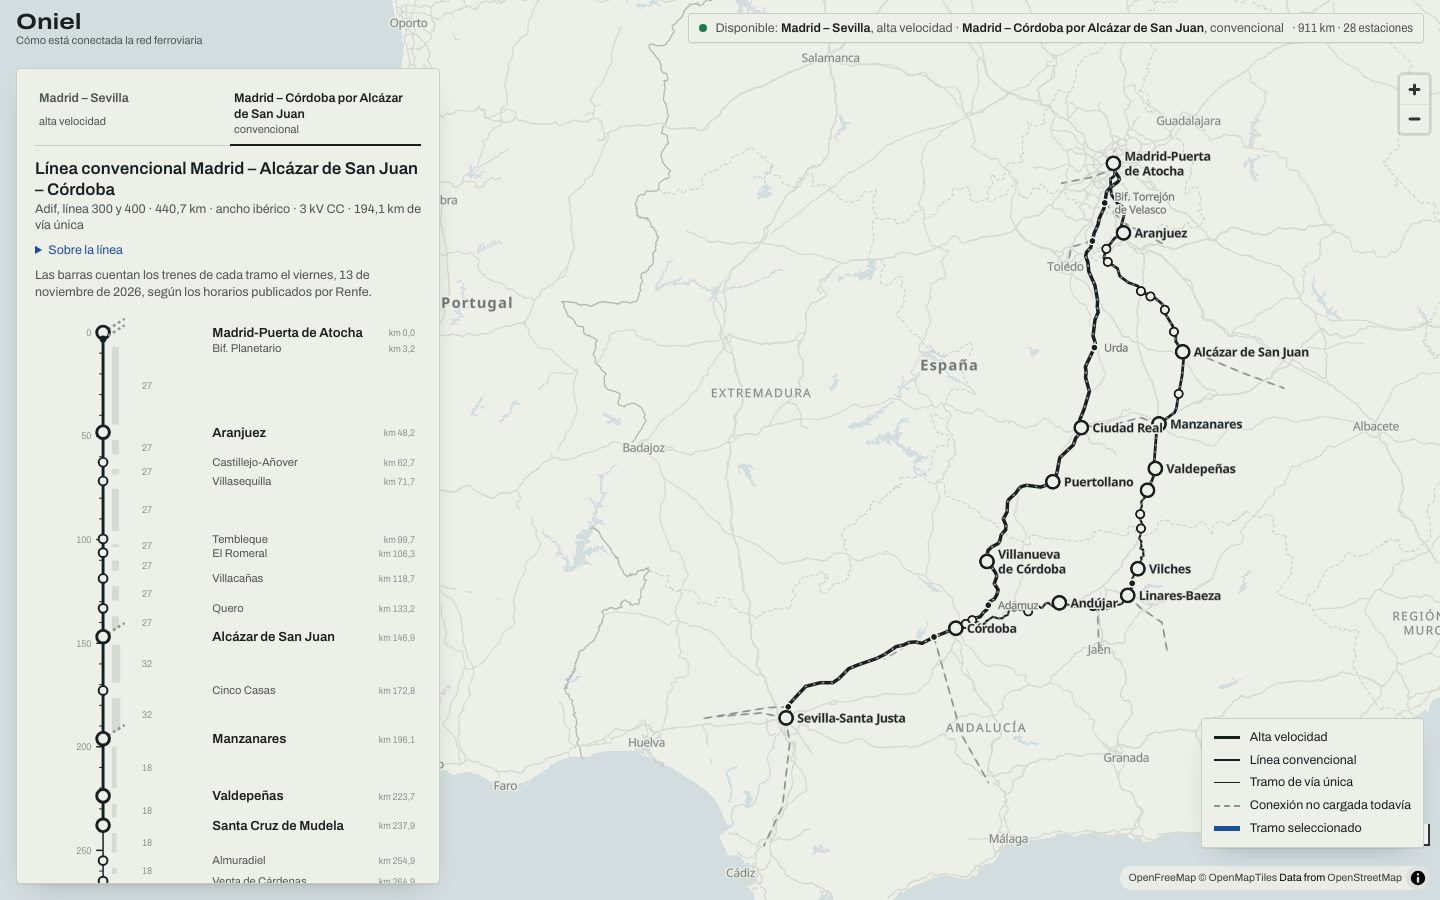
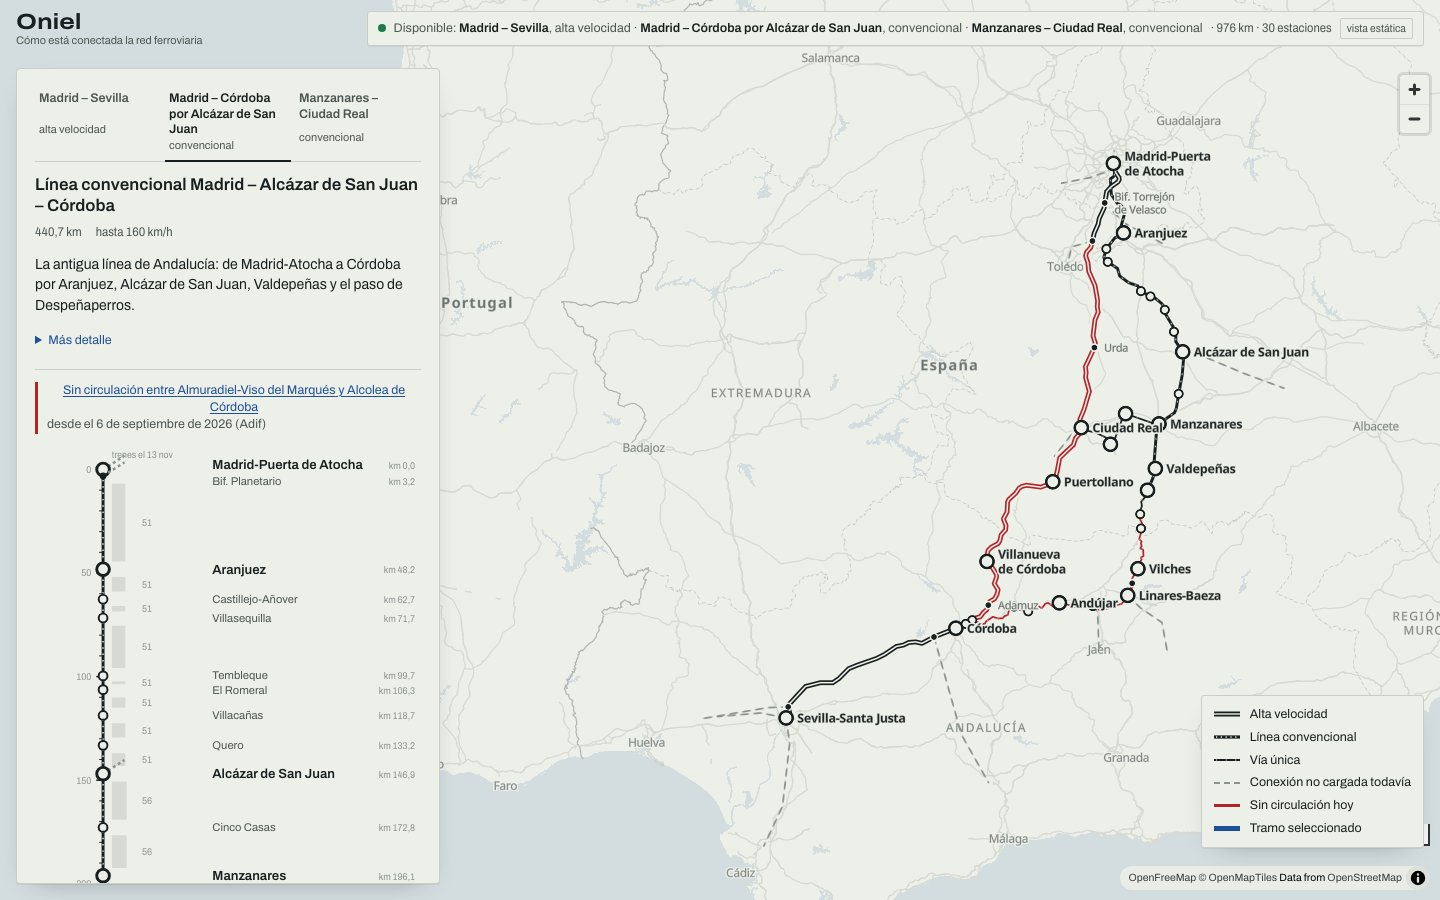
La ficha del tramo dice el tipo de vía, diseño documentado y capturas con el trazo nuevo

diff --git a/frontend/src/panel/SegmentDetail.tsx b/frontend/src/panel/SegmentDetail.tsx
@@ -2,7 +2,7 @@ import { useEffect, useState } from 'react'
 
 import { ApiError, fetchSegmentServices } from '../data/api'
 import type { InterruptionOut, NetworkOut, SegmentOut, SegmentServicesOut, Source } from '../data/types'
-import { formatDate, formatKm, productLabel, shortStop, tracksLabel } from '../app/state'
+import { formatDate, formatKm, lineKind, productLabel, shortStop, tracksLabel } from '../app/state'
 import { InterruptionNotice } from './InterruptionNotice'
 import { KindBadge } from './KindBadge'
 import { PieFuente, Plegable } from './Plegable'
@@ -44,6 +44,11 @@ export function SegmentDetail({ segment, network, sources, referenceDate, interr
       <button type="button" className="enlace volver" onClick={onBack}>
         ← Toda la línea
       </button>
+      {/* lo primero, el tipo de vía en palabras: el mismo que dicen el trazo del mapa y la leyenda */}
+      <p className="sobre" data-testid="tramo-tipo">
+        {line && lineKind(line) === 'alta velocidad' ? 'Alta velocidad' : 'Línea convencional'}
+        {segment.tracks === 1 ? ', vía única' : ''}
+      </p>
       <p className="sobre">Tramo {segment.seq} de {line?.segment_count ?? '–'} · {line?.name}</p>
       <h2 id="detalle-titulo" className="titulo">
         <button type="button" className="enlace-nodo" onClick={() => onSelectNode(segment.from_node_id)}>

diff --git a/frontend/e2e/explorar.spec.ts b/frontend/e2e/explorar.spec.ts
@@ -23,6 +23,7 @@ test.describe('Explorar la red', () => {
     await expect(page.getByRole('heading', { name: /Ciudad Real/ })).toBeVisible()
     await expect(page.getByRole('heading', { name: /Puertollano/ })).toBeVisible()
     await expect(page.getByText(/Longitud/)).toBeVisible()
+    await expect(page.getByTestId('tramo-tipo')).toHaveText('Alta velocidad')
     await expect(page.getByTestId('tramo-vias')).toHaveText('Vía doble')
     await expect(page.getByTestId('lista-servicios').locator('li').first()).toBeVisible()
     await expect(page.getByTestId('lista-servicios')).toContainText(/AVE|AVLO|ALVIA|Intercity/)
@@ -42,6 +43,7 @@ test.describe('Explorar la red', () => {
     await expect(page.getByTestId('detalle-nodo')).toBeVisible()
     await page.getByRole('button', { name: 'Santa Cruz de Mudela – Almuradiel-Viso del Marqués' }).click()
     await expect(page.getByTestId('detalle-tramo')).toBeVisible()
+    await expect(page.getByTestId('tramo-tipo')).toHaveText('Línea convencional, vía única')
     await expect(page.getByTestId('tramo-vias')).toHaveText('Vía única')
     await expect(page.getByTestId('lista-servicios')).toContainText(/MD/)
     await expect(page).toHaveURL(/#\/tramo\/convencional-madrid-alcazar-cordoba:santa-cruz-de-mudela:almuradiel-viso-del-marques/)

diff --git a/docs/diseno.md b/docs/diseno.md
@@ -48,13 +48,17 @@ Composición
 - Móvil: mapa arriba, hoja inferior arrastrable con el esquema compacto y la selección.
 - Varias líneas: el mapa las dibuja todas; el panel muestra una a la vez, elegida con pestañas sobre el esquema, y cambia solo a la línea de lo que se selecciona en el mapa. Un nodo común a dos líneas (Madrid-Puerta de Atocha, Córdoba, Manzanares, Ciudad Real) es un solo punto en el mapa y aparece en el esquema de cada línea con su kilómetro.
 
-Trazo de la vía
-- Sigue siendo tinta; el grosor dice de qué vía se trata, como en las hojas del IGN: alta velocidad 3 px, línea convencional 2,4 px, vía única 1,8 px (a zoom 5; crecen con el zoom). Los trazos blancos se mantienen en todas.
-- En el esquema vertical la vía doble es un trazo de 3 px y la vía única de 1,5 px; la leyenda del mapa explica los tres grosores.
+Trazo de la vía (decidido el 11 de noviembre de 2026, con las variantes delante: `docs/capturas/escritorio-16-trazos.jpg` y `movil-07-trazos.jpg`)
+- La vía sigue siendo tinta y no usa color: lo que dice de qué vía se trata es el dibujo del trazo y, además, el grosor, como en los mapas topográficos. Se descartó distinguirla solo por el grosor (había que comparar dos líneas para notarlo) y solo por el dibujo (el filete se perdía en la vista general).
+- Alta velocidad: trazo grueso (4,2 px a zoom 5) con un filete claro continuo por el centro. Línea convencional de vía doble: trazo medio (2,55 px) con los trazos blancos clásicos. Vía única, sea cual sea la línea: trazo fino (1,5 px) con los trazos blancos más espaciados. Todos crecen con el zoom.
+- El tipo de línea y el número de vías son dos propiedades distintas de cada tramo (`tipo` y `vias` en `frontend/src/map/layers.ts`); el trazo sale de las dos.
+- El esquema vertical usa la misma convención (5 px con filete, 3 px con trazos, 2 px con trazos espaciados) y la leyenda enseña los tres trazos con su dibujo. En la ficha del tramo, la primera línea lo dice en palabras: «Alta velocidad», «Línea convencional, vía única».
+- Cada trazo de la leyenda es un botón: al pasar por encima o al llegar con el teclado se resalta ese trazo en el mapa y los demás se atenúan; un clic lo deja fijado y otro lo suelta. Es movimiento en respuesta a una acción, sin animación. En el móvil no hay leyenda.
+- Los estados van encima del dibujo y no lo cambian: el rojo de «sin circulación» y el azul de la selección tiñen la tinta y conservan el filete o los trazos; el halo y el engrosado siguen marcando la selección y el cierre simulado.
 - Los nodos secundarios (apeaderos y estaciones menores) se dibujan más pequeños, con rótulo en gris y solo a partir del zoom 7,5; en el esquema compacto del móvil se ven como marcas sin rótulo.
 
 Interrupciones del servicio (decidido el 10 de noviembre de 2026)
-- El rojo ya significaba «cierre»: un tramo con una interrupción vigente hoy se dibuja con la vía en rojo, en el mapa y en el esquema, con su grosor de siempre y sus trazos blancos. No hay iconos, animaciones ni avisos emergentes.
+- El rojo ya significaba «cierre»: un tramo con una interrupción vigente hoy se dibuja con la vía en rojo, en el mapa y en el esquema, con su grosor y su dibujo de siempre. No hay iconos, animaciones ni avisos emergentes.
 - Se distingue del cierre simulado por el énfasis: el cierre simulado lleva el trazo grueso y un halo rojo; la interrupción real, solo el color. Un tramo interrumpido sigue en rojo al seleccionarlo: la selección la dicen el grosor y el halo azul (en el esquema, un borde azul alrededor del rojo).
 - La leyenda añade «Sin circulación hoy» con una muestra roja fina, solo cuando hay alguna interrupción vigente. En el móvil no hay leyenda: lo explica la línea de texto que va sobre el esquema.
 - En el panel, la interrupción es un bloque como el del contexto de un nodo, con el filete en rojo: la etiqueta «sin circulación» y los extremos, el motivo, desde cuándo y hasta cuándo se prevé, una nota opcional, las fuentes con enlace y la fecha de la última comprobación. Aparece en el tramo, en los nodos del corte y en el panel de cobertura.
